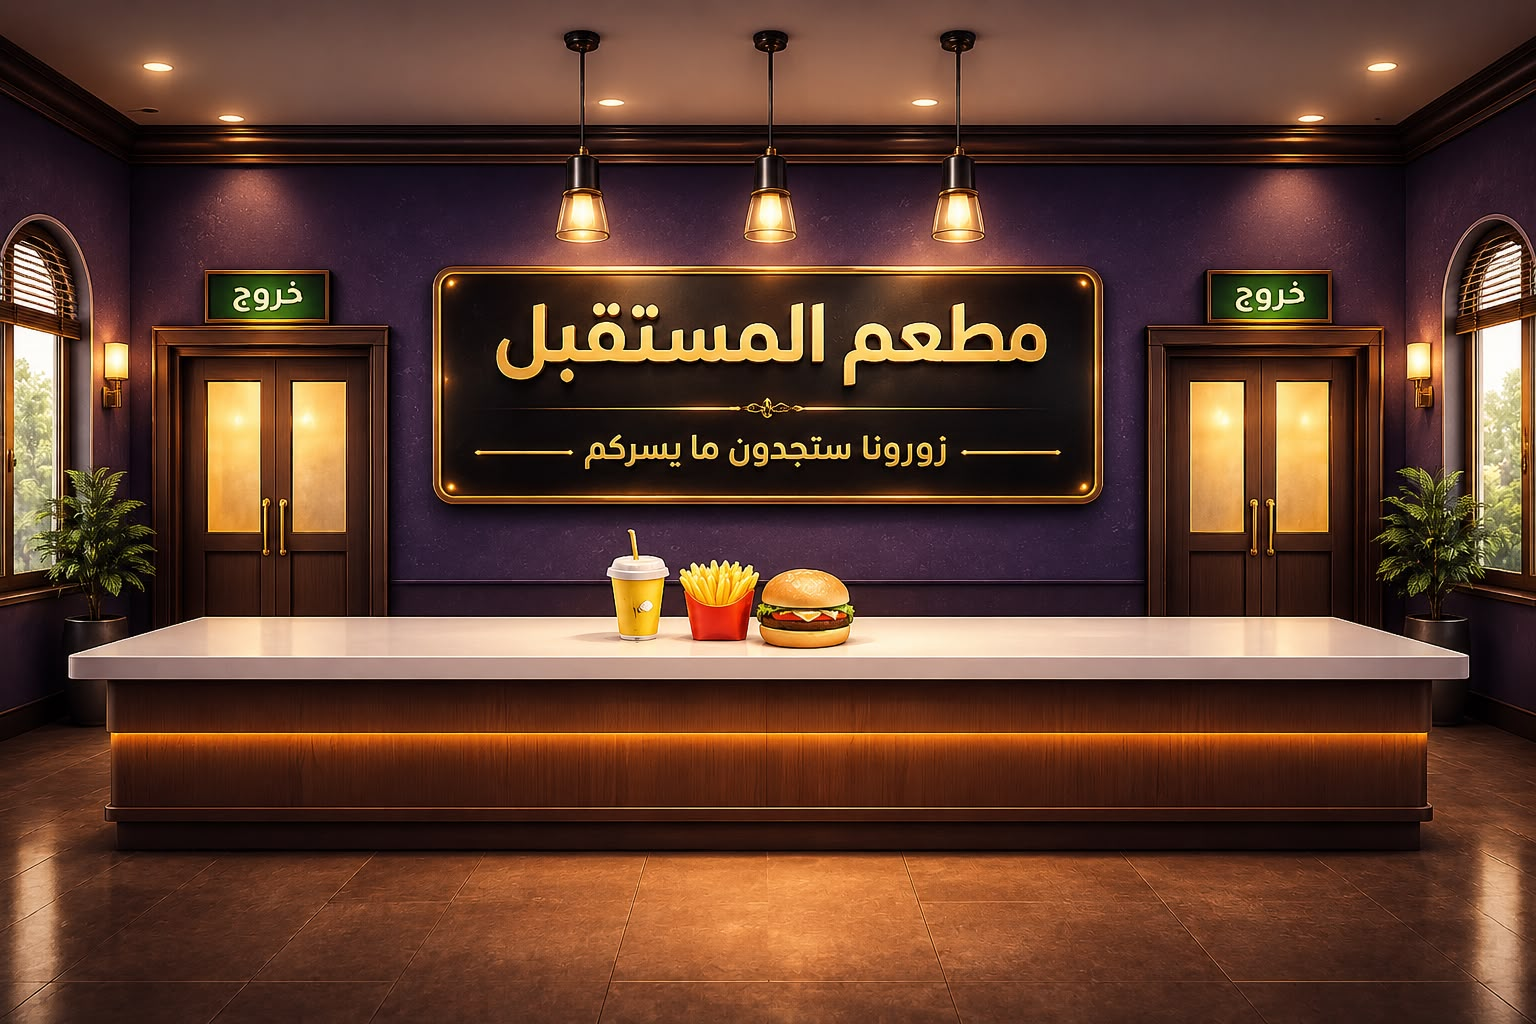
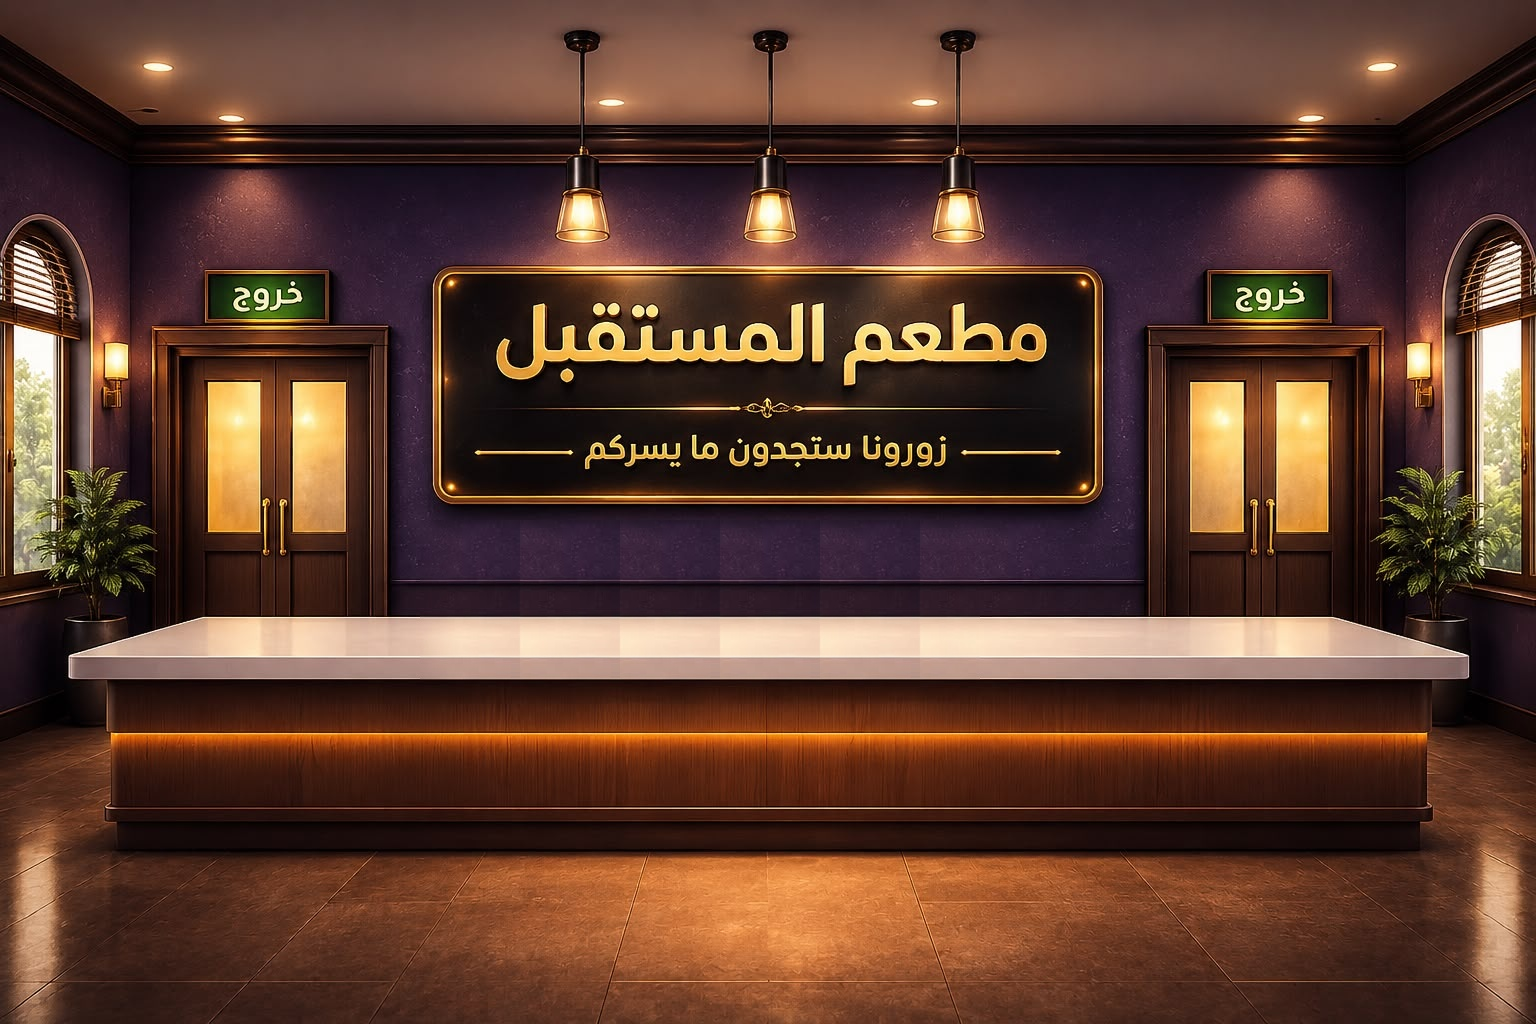
حذف الشخصية المنقّبة نهائياً، إضافة 9 شخصيات جديدة (لوحات مسطحة billboard sprites)، إصلاح جذري لحجم الشخصيات بالوضع العرضي، استبدال أيقونات البرجر/الفلافل/الشاورما بصور عالية الجودة، مسح الأكل المتبقي من صورة الكاونتر، وإعادة تصميم فقاعة طلب الزبون كبسولة متوهجة بوجه مزاج كبير

Changed region(s): [[0.375, 0.5, 0.5938, 0.6562]]

diff --git a/scene3d.js b/scene3d.js
@@ -233,15 +233,16 @@ window.S3D = (() => {
     if (vip === "samir") return regularTemplates.smilingMascot ? buildStaticFromModel(regularTemplates.smilingMascot) : buildLoadingPlaceholder();
     if (vip === "muniOfficer") return regularTemplates.fieldInspectorMuni ? buildStaticFromModel(regularTemplates.fieldInspectorMuni) : buildLoadingPlaceholder();
     if (female) {
-      // زبونة: نموذج حقيقي دائماً من مجموعة متنوعة (منقّبة بألوان مختلفة، عباءة بوجه مكشوف، حجاب عصري، أو بدون حجاب)
-      const pool = ["veiledInBlack", "midnightAbaya", "casualChicHijab", "casualChic"].filter((k) => regularTemplates[k]);
+      // زبونة: نموذج حقيقي دائماً من مجموعة متنوعة (عباءة بوجه مكشوف، حجاب عصري، بدون حجاب، أو لوحة مسطحة)
+      const pool = ["midnightAbaya", "casualChicHijab", "casualChic", "spriteGirl"].filter((k) => regularTemplates[k]);
       if (!pool.length) return buildLoadingPlaceholder();
       const pick = pool[Math.floor(Math.random() * pool.length)];
-      return pick === "veiledInBlack" ? buildFemaleFromModel(c) : buildStaticFromModel(regularTemplates[pick]);
+      return buildStaticFromModel(regularTemplates[pick]);
     }
     if (!vip) {
       // زبون عادي (رجل): نموذج GLTF حقيقي دائماً من مجموعة متنوعة
-      const pool = ["blueThobe", "businessman", "emeraldRobed", "jollyPortly", "constructionExec", "grayKurta", "clockworkGentleman", "cartoonBoy"]
+      const pool = ["blueThobe", "businessman", "emeraldRobed", "jollyPortly", "constructionExec", "grayKurta", "clockworkGentleman", "cartoonBoy",
+        "spriteElderCardigan", "spriteYoungHoodie", "spriteBoyBlue", "spriteElderCapVest", "spriteElderWhiteThobe", "spritePilot", "spriteConstruction", "spriteThobeJolly", "spritePlump"]
         .filter((k) => regularTemplates[k]);
       if (!pool.length) return buildLoadingPlaceholder();
       const pick = pool[Math.floor(Math.random() * pool.length)];
@@ -530,12 +531,19 @@ window.S3D = (() => {
     return g;
   }
 
-  /* أيقونات الأصناف: نرندر المجسم في مشهد صغير ونحوله لصورة */
+  /* أيقونات الأصناف: نرندر المجسم في مشهد صغير ونحوله لصورة —
+     ما عدا هذه الأصناف: لها صور جاهزة عالية الجودة (شفافة الخلفية) بدل الرندر الإجرائي */
+  const STATIC_DISH_ICONS = {
+    burger: "models/dish_icons/burger.png",
+    falafel: "models/dish_icons/falafel.png",
+    shawarma: "models/dish_icons/shawarma.png",
+  };
   const iconCache = {};
   let iconRenderer = null, iconScene = null, iconCam = null;
   api.dishIcon = function (dish) {
     if (!api.active) return null;
     const key = dishKind(dish);
+    if (STATIC_DISH_ICONS[key]) return STATIC_DISH_ICONS[key];
     if (iconCache[key]) return iconCache[key];
     try {
       if (!iconRenderer) {
@@ -659,7 +667,6 @@ window.S3D = (() => {
     loadStatic((m) => { regularTemplates.jollyPortly = m; }, "models/jolly_portly.glb", "الرجل البشوش");
     loadStatic((m) => { regularTemplates.littleBackpacker = m; }, "models/little_backpacker.glb", "خليل");
     loadStatic((m) => { regularTemplates.thumbsUpHandyman = m; }, "models/thumbs_up_handyman.glb", "أبو شاكر الفني");
-    loadStatic((m) => { regularTemplates.veiledInBlack = m; }, "models/veiled_in_black.glb", "المنقبة");
     loadStatic((m) => { regularTemplates.grandpaCane = m; }, "models/grandpa_cane.glb", "الخواجة إدوارد");
     loadStatic((m) => { regularTemplates.constructionExec = m; }, "models/construction_exec.glb", "زبون (تنفيذي)");
     loadStatic((m) => { regularTemplates.grayKurta = m; }, "models/gray_kurta.glb", "زبون (كردتة رمادية)");
@@ -672,6 +679,27 @@ window.S3D = (() => {
     loadStatic((m) => { regularTemplates.casualChic = m; }, "models/casual_chic.glb", "زبونة (عصرية)");
     loadStatic((m) => { regularTemplates.casualChicHijab = m; }, "models/casual_chic_hijab.glb", "زبونة (حجاب)");
     loadStatic((m) => { regularTemplates.midnightAbaya = m; }, "models/midnight_abaya.glb", "زبونة (عباءة)");
+
+    // شخصيات "لوحة مسطحة" (صور شفافة الخلفية) — تُحمَّل كتكستر لا كنموذج GLTF
+    const texLoader = new THREE.TextureLoader();
+    const loadSprite = (key, url, label) => {
+      texLoader.load(url, (tex) => {
+        if ("colorSpace" in tex) tex.colorSpace = THREE.SRGBColorSpace;
+        tex.anisotropy = maxAniso;
+        const img = tex.image;
+        regularTemplates[key] = { isSprite: true, texture: tex, aspect: img.width / img.height };
+      }, undefined, (err) => console.warn(`تعذر تحميل صورة ${label}`, err));
+    };
+    loadSprite("spriteElderCardigan", "models/sprites/sprite_elder_cardigan.png", "زبون (كارديجان)");
+    loadSprite("spriteYoungHoodie", "models/sprites/sprite_young_hoodie.png", "زبون (هودي)");
+    loadSprite("spriteBoyBlue", "models/sprites/sprite_boy_blue.png", "زبون (ولد)");
+    loadSprite("spriteElderCapVest", "models/sprites/sprite_elder_cap_vest.png", "زبون (قبعة وصدرية)");
+    loadSprite("spriteElderWhiteThobe", "models/sprites/sprite_elder_white_thobe.png", "زبون (ثوب أبيض)");
+    loadSprite("spritePilot", "models/sprites/sprite_pilot.png", "زبون (طيار)");
+    loadSprite("spriteConstruction", "models/sprites/sprite_construction.png", "زبون (بناء)");
+    loadSprite("spriteThobeJolly", "models/sprites/sprite_thobe_jolly.png", "زبون (ثوب بشوش)");
+    loadSprite("spritePlump", "models/sprites/sprite_plump_blue_shirt.png", "زبون (قميص أزرق)");
+    loadSprite("spriteGirl", "models/sprites/sprite_girl_cream_blouse.png", "زبونة (بلوزة كريمية)");
 
     // أطباق حقيقية (شاورما/بطاطس/مشروب) — نفس التحميل لكن بمقاس أصغر يناسب الطبق لا الشخصية
     const loadDish = (key, url, label) => {
@@ -699,33 +727,19 @@ window.S3D = (() => {
     loadDish("drink", "models/dish_drink.glb", "مشروب");
   }
 
-  /* ألوان عباءة متنوعة للمنقبة (تلوين حقيقي: مضروب بالتكستر + لمسة توهج خفيفة على الظل) */
-  const ABAYA_TINTS = [
-    { color: 0xffffff, emissive: 0x000000 }, // أسود أصلي
-    { color: 0xb5677a, emissive: 0x330010 }, // كستنائي
-    { color: 0x6f86b5, emissive: 0x001433 }, // كحلي
-    { color: 0x6fb590, emissive: 0x00330f }, // أخضر داكن
-    { color: 0x9b7ab5, emissive: 0x1c0033 }, // بنفسجي داكن
-    { color: 0xb59b7a, emissive: 0x241800 }, // بني داكن
-  ];
-
-  /* شخصية منقّبة من نموذج GLTF حقيقي، بلون عباءة عشوائي لكل زبونة (نفس النموذج، تنويع بالتلوين) */
-  function buildFemaleFromModel(c) {
+  /* شخصيات "لوحة مسطحة" (billboard sprite): صورة PNG شفافة الخلفية على مستطيل يواجه
+     الكاميرا تلقائياً (THREE.Sprite) — بما إن كاميرا اللعبة ثابتة لا تدور أبداً، هذا
+     يبدو بصرياً مطابقاً لنموذج مجسم حقيقي بدون الحاجة لنمذجة three ثلاثية الأبعاد */
+  function buildSpriteFromTemplate(template) {
     const g = new THREE.Group();
-    const model = regularTemplates.veiledInBlack.clone(true);
-    g.add(model);
-    const tint = c._tint || (c._tint = ABAYA_TINTS[Math.floor(Math.random() * ABAYA_TINTS.length)]);
-    let headMat = null;
-    model.traverse((o) => {
-      if (o.isMesh) {
-        o.material = o.material.clone(); // مادة خاصة لكل نسخة كي لا يتغير لون بقية الزبونات
-        o.material.color.setHex(tint.color);
-        o.material.emissive.setHex(tint.emissive);
-        if (!headMat) headMat = o.material;
-      }
-    });
+    const spriteMat = new THREE.SpriteMaterial({ map: template.texture, transparent: true });
+    const sprite = new THREE.Sprite(spriteMat);
+    sprite.center.set(0.5, 0); // ترسية أسفل الصورة عند القدمين (y=0) بدل منتصفها
+    const h = MODEL_HEIGHT;
+    sprite.scale.set(h * template.aspect, h, 1);
+    g.add(sprite);
     g.add(groundShadow());
-    return { group: g, head: null, headMat, height: MODEL_HEIGHT, mouths: null };
+    return { group: g, head: null, headMat: spriteMat, height: MODEL_HEIGHT, mouths: null };
   }
 
   /* شكل مؤقت بسيط (بدون تفاصيل) يظهر فقط في الثانية الأولى النادرة قبل اكتمال تحميل النماذج */
@@ -741,6 +755,7 @@ window.S3D = (() => {
   /* غلاف علوي فارغ: حلقة الرسم تكتب فوق group.position.y كل إطار (اهتزاز المشي)،
      فلازم تبقى إزاحة "تثبيت القدمين على الأرض" على النموذج الابن لا الغلاف نفسه */
   function buildStaticFromModel(template) {
+    if (template && template.isSprite) return buildSpriteFromTemplate(template);
     const g = new THREE.Group();
     const model = template.clone(true);
     g.add(model);
@@ -1126,6 +1141,21 @@ window.S3D = (() => {
         el.style.backgroundSize = dispW + "px " + dispH + "px";
         el.style.backgroundPosition = offX + "px " + offY + "px";
       }
+    }
+
+    // تكبير بصري ثابت النسبة: كاميرا اللعبة ذات زاوية رؤية رأسية ثابتة، فحجم
+    // الشخصية بالبكسل يتناسب تقريباً مع ارتفاع الحاوية h — بالوضع العرضي (h صغير
+    // جداً) تصير الشخصيات صغيرة رغم أنها تاخذ نفس النسبة من الشاشة. نعوّض بتكبير
+    // (CSS transform) موحّد على الكانفس وطبقتي الخلفية معاً، بنفس نقطة الأصل
+    // (أسفل المنتصف) — فتبقى محاذاة حافة الكاونتر بالصورة صحيحة تماماً كما هي،
+    // فقط "مكبّرة" ومقصوصة بحدود الحاوية (overflow:hidden).
+    const REF_H = 340; // ارتفاع مرجعي (بكسل) تُحسب عنده الشخصيات بحجمها الطبيعي
+    const zoom = h < REF_H ? Math.min(2, REF_H / h) : 1;
+    const zoomStyle = zoom > 1.001 ? `scale(${zoom.toFixed(3)})` : "";
+    for (const el of [renderer.domElement, bgWallLayer, bgCounterLayer]) {
+      if (!el) continue;
+      el.style.transformOrigin = "50% 100%";
+      el.style.transform = zoomStyle;
     }
   }
 

diff --git a/styles.css b/styles.css
@@ -254,27 +254,41 @@ body.fire #stat-combo { background: linear-gradient(90deg, #ff6b35, #f7c531); co
   overflow-y: auto;
   flex-shrink: 0;
 }
+/* كبسولة عمودية متوهجة بحدود مزدوجة (حلقة بيضاء + توهج وردي) على خلفية شبه
+   شفافة — وجه المزاج الكبير أعلاها يعطي إحساس فوري بحالة الزبون دون الحاجة
+   لتعبيرات وجه على المجسم نفسه (النماذج الجاهزة واللوحات المسطحة بلا حركة وجه) */
 .ov3d {
   position: relative;
   pointer-events: auto;
   cursor: pointer;
-  background: rgba(15, 9, 35, .92);
-  border: 2px solid rgba(255,255,255,.28);
-  border-radius: 14px;
-  padding: 6px 9px;
-  min-width: 96px;
-  max-width: 165px;
+  background: rgba(10, 4, 22, .5);
+  border: 2px solid rgba(255,255,255,.55);
+  border-radius: 28px;
+  padding: 10px 10px 8px;
+  min-width: 88px;
+  max-width: 150px;
   text-align: center;
   display: flex;
   flex-direction: column;
   align-items: center;
-  gap: 4px;
-  backdrop-filter: blur(2px);
-  box-shadow: 0 4px 14px rgba(0,0,0,.5);
+  gap: 3px;
+  backdrop-filter: blur(3px);
+  box-shadow: 0 0 0 4px rgba(255,255,255,.14), 0 0 16px rgba(255,140,205,.4), 0 4px 14px rgba(0,0,0,.5);
   z-index: 6;
 }
-.ov3d.vip { border-color: var(--accent2); box-shadow: 0 0 10px rgba(255,209,102,.35); }
-.ov3d.servable { border-color: var(--green); box-shadow: 0 0 14px rgba(46,204,113,.75); border-width: 3px; }
+.ov3d.vip { border-color: var(--accent2); box-shadow: 0 0 0 4px rgba(255,209,102,.22), 0 0 14px rgba(255,209,102,.5); }
+.ov3d.servable { border-color: var(--green); box-shadow: 0 0 0 4px rgba(46,204,113,.25), 0 0 16px rgba(46,204,113,.75); border-width: 3px; }
+.ov3d .ov-mood-face { font-size: 32px; line-height: 1; filter: drop-shadow(0 2px 3px rgba(0,0,0,.6)); }
+.ov3d .ov-urgent {
+  display: none;
+  align-items: center;
+  gap: 2px;
+  color: var(--red);
+  font-weight: 900;
+  font-size: 11px;
+  text-shadow: 0 0 6px rgba(255,107,107,.85);
+}
+.ov3d.urgent .ov-urgent { display: flex; }
 .ov3d .ov-name { font-size: 13px; font-weight: bold; white-space: nowrap; color: #fff; }
 .ov3d .ov-type { color: var(--accent2); font-weight: bold; font-size: 11px; }
 /* صف الأصناف بدون خلفية بيضاء — الأيقونات نفسها شفافة (PNG مرندرة بـalpha)
@@ -321,7 +335,8 @@ body.fire #stat-combo { background: linear-gradient(90deg, #ff6b35, #f7c531); co
   background: rgba(80,10,10,.85);
   animation: combopulse 1s infinite;
 }
-.ov3d .patience-bar { width: 100%; height: 6px; }
+.ov3d .patience-bar { width: 72%; height: 5px; border-radius: 999px; background: rgba(255,255,255,.15); margin-top: 2px; overflow: hidden; }
+.ov3d .patience-fill { border-radius: 999px; }
 .customer {
   flex: 1;
   max-width: 130px;
@@ -674,8 +689,11 @@ body.fire #stat-combo { background: linear-gradient(90deg, #ff6b35, #f7c531); co
   .station .s-img { width: 36px; height: 36px; }
   /* شريط التذاكر بأصغر مساحة ممكنة بالوضع العرضي الضيق — الأولوية لظهور الزبائن أنفسهم */
   #overlay3d { max-height: 15vh; padding: 2px 6px; gap: 4px; }
-  .ov3d { padding: 3px 6px; min-width: 76px; gap: 2px; }
+  .ov3d { padding: 5px 6px 4px; min-width: 76px; gap: 1px; border-radius: 20px; }
+  .ov3d .ov-mood-face { font-size: 22px; }
+  .ov3d .ov-urgent { font-size: 9px; }
   .ov3d .ov-name { font-size: 10px; }
   .ov3d .order-bubble { max-height: 40px; padding: 2px 3px; }
   .ov3d .order-bubble img { width: 20px; height: 20px; }
+  .ov3d .patience-bar { height: 4px; }
 }

diff --git a/game.js b/game.js
@@ -1628,7 +1628,9 @@ function renderCustomers3D() {
       !!(selected && c.order.some(o => !o.done && o.dish.id === day.tray[day.selectedTray].dish.id)));
     ov.classList.toggle("vip", !!c.isVip);
     ov.innerHTML = `
-      <div class="ov-name">${c.chatPending ? "💬 " : ""}${c.name} <span class="ov-type">${c.type.label}</span> <span class="ov-mood"></span></div>
+      <div class="ov-mood-face">${moodFace(c)}</div>
+      <div class="ov-urgent">⚡ مستعجل</div>
+      <div class="ov-name">${c.chatPending ? "💬 " : ""}${c.name} <span class="ov-type">${c.type.label}</span></div>
       <div class="order-bubble">${c.order.map(o => {
         const ic = S3D.dishIcon ? S3D.dishIcon(o.dish) : null;
         return `<span class="oitem ${o.done ? "done" : ""}">${ic ? `<img src="${ic}" alt="${o.dish.name}">` : o.dish.emoji}</span>`;
@@ -1663,10 +1665,10 @@ function updatePatienceBars() {
       setTimeout(() => beep(988, 0.12, "square", 0.12), 130);
     }
     c.el.classList.toggle("urgent", r < 0.25);
-    // الوضع ثلاثي الأبعاد: إيموجي مزاج صغير بالفقاعة (المجسم نفسه يهتز ويحمرّ)
-    const moodOv = c.el.querySelector(".ov-mood");
-    if (moodOv) {
-      moodOv.textContent = r > 0.6 ? "" : (r > 0.3 ? "😕" : "😡");
+    // الوضع ثلاثي الأبعاد: وجه المزاج الكبير أعلى الفقاعة (المجسم نفسه يهتز ويحمرّ زيادة)
+    const moodFaceEl = c.el.querySelector(".ov-mood-face");
+    if (moodFaceEl) {
+      moodFaceEl.textContent = moodFace(c);
       continue;
     }
     // الوضع 2D الاحتياطي